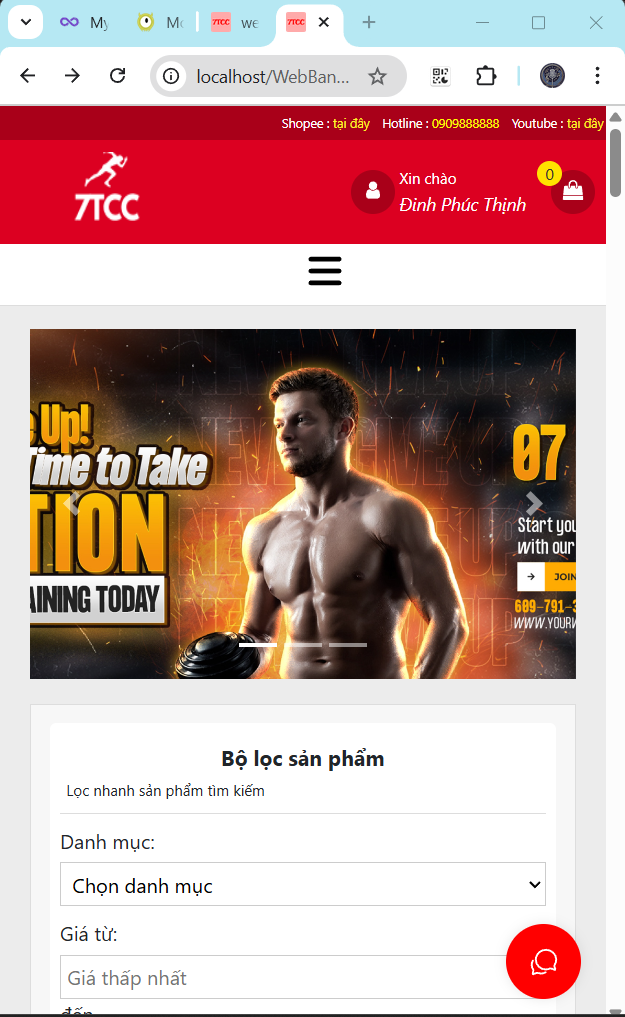
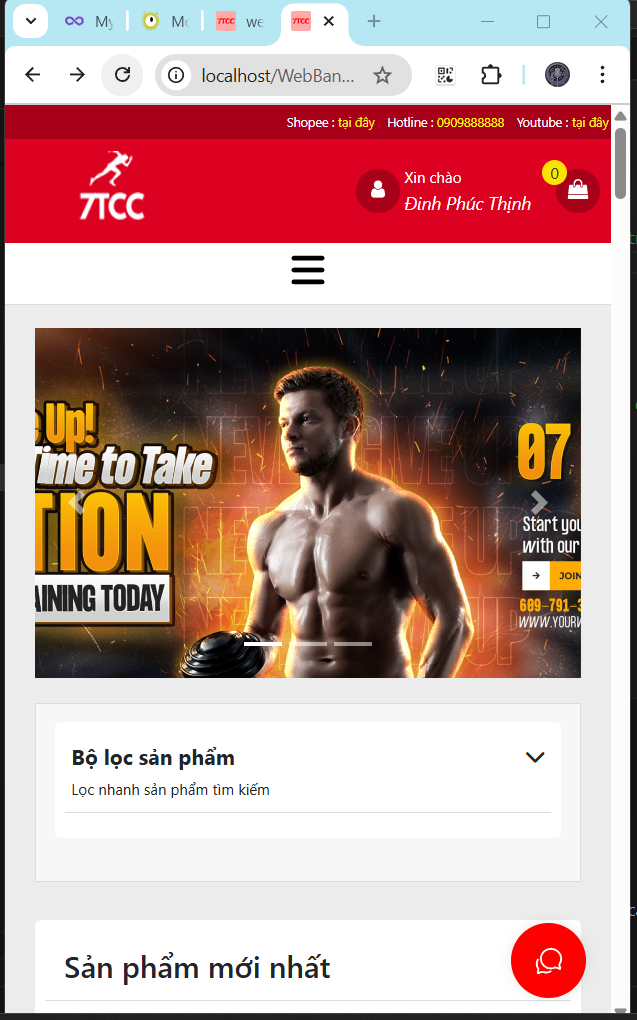
Làm bộ lọc sản phẩm đẹp hơn, đóng mở được

diff --git a/css/style-v1.css b/css/style-v1.css
@@ -459,20 +459,22 @@ input[type="text"]::-ms-clear {
   background-color: rgb(255, 255, 255);
   width: 100%;
   height: auto;
-  border-radius: 5px;
-  padding: 10px 8px;
+  border-radius: 12px;
+  padding: 1rem;
+  border: none;
+  box-shadow: 0 4px 20px rgba(0, 0, 0, 0.08);
+  overflow: hidden;
 }
 .filter_title {
-  padding: 5px 5px;
+  padding: 1rem;
   margin: 0;
-  height: auto;
-  border-bottom: 1px solid rgba(221, 221, 221, 1);
-  font-size: 12px;
+  border-bottom: 1px solid #e9ecef;
+  background-color: #f8f9fa;
 }
 .filter_title .title {
-  font-weight: bold;
-  font-size: 17px;
-  margin: 0;
+    font-weight: 600;
+    font-size: 1.1rem;
+    margin-bottom: 0;
 }
 .cate_content {
   background-color: rgb(255, 255, 255);
@@ -1572,6 +1574,9 @@ color: #999;
   .sidebar {
     flex-direction: row;
     width: 100%;
+    padding: 0;
+    background-color: transparent;
+    border: none;
   }
   .footer_content {
     justify-content: center;

diff --git a/pages/sidebar/sidebar.php b/pages/sidebar/sidebar.php
@@ -10,56 +10,69 @@ $tinh_trang_filter = filter_input(INPUT_GET, 'tinhtrang', FILTER_SANITIZE_SPECIA
 $ten_sp_filter = isset($_GET['ten_sp']) ? trim(urldecode($_GET['ten_sp'])) : '';
 ?>
 
-
 <div class="sidebar">
     <div class="filter_content">
-        <div class="filter_title">
-            <p class="title">Bộ lọc sản phẩm</p>
+        <div class="filter_title" data-bs-toggle="collapse" data-bs-target="#filterCollapse" aria-expanded="false" aria-controls="filterCollapse" style="cursor: pointer;">
+            <p class="title d-flex justify-content-between align-items-center">
+                Bộ lọc sản phẩm
+                <i class="fas fa-chevron-down"></i>
+            </p>
             <p style="margin: 4px 0px;">Lọc nhanh sản phẩm tìm kiếm</p>
         </div>
-        <!-- Form submission via GET method -->
-        <form method="GET" action="index.php" id="filterForm">
-            <input type="hidden" name="quanly" value="timKiemNangCao"> <!-- Hidden field to ensure 'quanly=timKiemNangCao' is passed -->
+        <div class="collapse" id="filterCollapse">
+            <!-- Form submission via GET method -->
+            <form method="GET" action="index.php" id="filterForm" class="mt-3">
+                <input type="hidden" name="quanly" value="timKiemNangCao"> <!-- Hidden field to ensure 'quanly=timKiemNangCao' is passed -->
 
-            <div>
-                <label for="danhmuc">Danh mục:</label>
-                <select name="danhmuc">
-                    <option value="">Chọn danh mục</option>
-                    <?php
-                    $sql_cate = "SELECT * FROM tbl_danhmucqa ORDER BY id_dm DESC";
-                    $cate = mysqli_query($mysqli, $sql_cate);
-                    while ($dm = mysqli_fetch_array($cate)) {
-                        echo "<option value='" . $dm['id_dm'] . "'" . ($danhmuc_filter == $dm['id_dm'] ? ' selected' : '') . ">" . htmlspecialchars($dm['name_sp']) . "</option>";
-                    }
-                    ?>
-                </select>
-            </div>
+                <div>
+                    <label for="danhmuc">Danh mục:</label>
+                    <select name="danhmuc" class="form-select">
+                        <option value="">Chọn danh mục</option>
+                        <?php
+                        $sql_cate = "SELECT * FROM tbl_danhmucqa ORDER BY id_dm DESC";
+                        $cate = mysqli_query($mysqli, $sql_cate);
+                        while ($dm = mysqli_fetch_array($cate)) {
+                            echo "<option value='" . $dm['id_dm'] . "'" . ($danhmuc_filter == $dm['id_dm'] ? ' selected' : '') . ">" . htmlspecialchars($dm['name_sp']) . "</option>";
+                        }
+                        ?>
+                    </select>
+                </div>
 
-            <div>
-                <label for="gia_min">Giá từ:</label>
-                <input type="number" name="gia_min" placeholder="Giá thấp nhất" value="<?php echo htmlspecialchars($gia_min_filter); ?>">
-                <label for="gia_max">đến</label>
-                <input type="number" name="gia_max" placeholder="Giá cao nhất" value="<?php echo htmlspecialchars($gia_max_filter); ?>">
-            </div>
+                <div class="mt-2">
+                    <label for="gia_min">Giá từ:</label>
+                    <input type="number" name="gia_min" placeholder="Giá thấp nhất" class="form-control" value="<?php echo htmlspecialchars($gia_min_filter); ?>">
+                    <label for="gia_max" class="mt-1">đến</label>
+                    <input type="number" name="gia_max" placeholder="Giá cao nhất" class="form-control" value="<?php echo htmlspecialchars($gia_max_filter); ?>">
+                </div>
 
-            <div>
-                <label for="tinhtrang">Tình trạng:</label>
-                <select name="tinhtrang">
-                    <option value="">Tất cả</option>
-                    <option value="1" <?php echo ($tinh_trang_filter == '1' ? 'selected' : ''); ?>>Còn hàng</option>
-                    <option value="0" <?php echo ($tinh_trang_filter == '0' ? 'selected' : ''); ?>>Hết hàng</option>
-                </select>
-            </div>
+                <div class="mt-2">
+                    <label for="tinhtrang">Tình trạng:</label>
+                    <select name="tinhtrang" class="form-select">
+                        <option value="">Tất cả</option>
+                        <option value="1" <?php echo ($tinh_trang_filter == '1' ? 'selected' : ''); ?>>Còn hàng</option>
+                        <option value="0" <?php echo ($tinh_trang_filter == '0' ? 'selected' : ''); ?>>Hết hàng</option>
+                    </select>
+                </div>
 
-            <div>
-                <label for="ten_sp">Tên sản phẩm:</label>
-                <input type="text" name="ten_sp" placeholder="Tìm kiếm sản phẩm" value="<?php echo htmlspecialchars(trim($ten_sp_filter), ENT_QUOTES, 'UTF-8'); ?>">
-            </div>
+                <div class="mt-2">
+                    <label for="ten_sp">Tên sản phẩm:</label>
+                    <input type="text" name="ten_sp" placeholder="Tìm kiếm sản phẩm" class="form-control" value="<?php echo htmlspecialchars(trim($ten_sp_filter), ENT_QUOTES, 'UTF-8'); ?>">
+                </div>
 
-            <button type="submit">Lọc</button>
-        </form>
+                <button type="submit" class="btn btn-danger w-100 mt-3">Lọc</button>
+            </form>
+        </div>
     </div>
 </div>
+
+<style>
+.filter_title .fa-chevron-down {
+    transition: transform 0.3s;
+}
+.filter_title[aria-expanded="true"] .fa-chevron-down {
+    transform: rotate(180deg);
+}
+</style>
 
 <script>
     document.addEventListener('DOMContentLoaded', function () {
